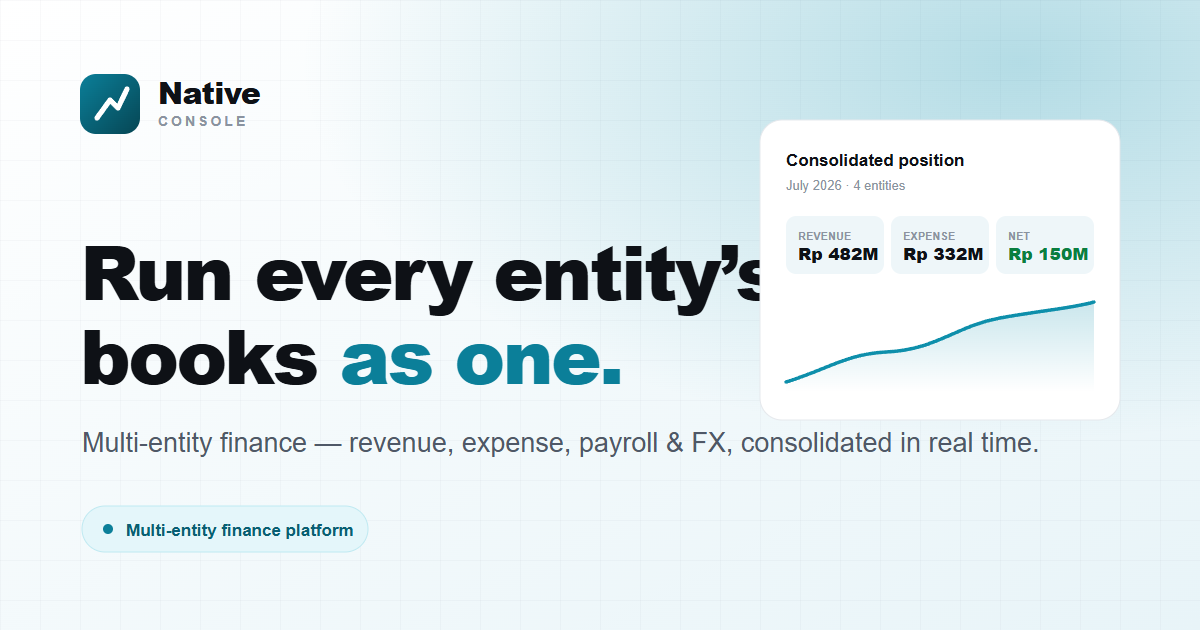
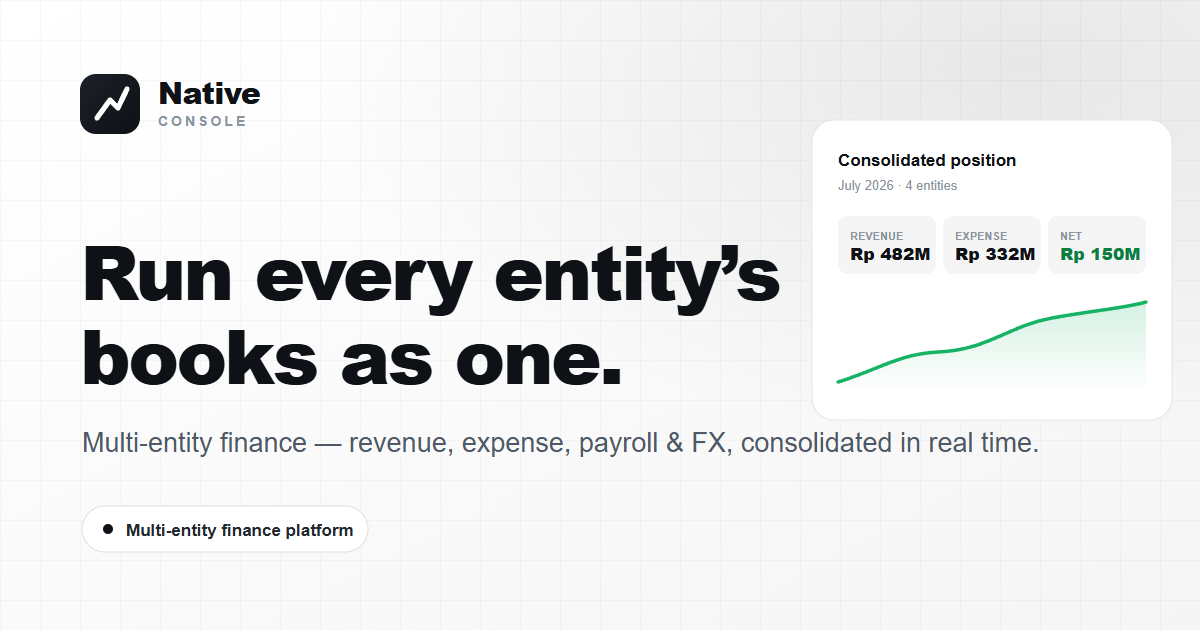
style(web): the ink brand reaches the surfaces ADR 0077's sweep never touched — login, self-order, share card, public pages, shell sources
ADR 0077 made the console ink, but the sweep stopped at frontend/console/src. Everything a
web user meets AROUND the console was still deep cyan: the Keycloak login page (the first
screen of every session — its own token block and a cyan-multiplied photo rail), the
self-order mini app's @theme, the Open Graph share card, the public privacy and
account-deletion pages' paper, and the Android shells' colours (launcher theme colours, the
pre-12 splash gradient, the offline error page, the Capacitor splash background). Owner:
"the web app still has the cyan theme."

Same move as the console: the token blocks are re-pointed, the names stay. Login theme —
`--nt-brand-600` fills go ink, 700 speaks one step off ink, the tints go true grey, the rail's
multiply and vignette go ink, the wordmark tile on the rail goes white with an ink glyph (the
signup panel's treatment); PatternFly's primary/active tokens follow automatically.
Self-order — the same six-value remap. Share card — ink mark and lockup, grey tints, the
trend line and NET in profit green (the one accent the ink brand keeps), the headline all ink
(no accent word), and the chart card nudged 52px right so "entity's" no longer runs under it;
og-image.png re-rastered. Public pages — paper #FAFAFA. Shells — colours.xml, splash,
capacitor.config and error.html sources are ink; they take effect on the next APK build.

The deploy already rsyncs docker/keycloak and bind-mounts the theme, so the login page
[…]

diff --git a/docker/keycloak/themes/native/login/resources/css/native.css b/docker/keycloak/themes/native/login/resources/css/native.css
@@ -1,10 +1,10 @@
 /*
  * Native login theme — re-skins the stock Keycloak keycloak.v2 (PatternFly v5) login page to match
  * the console's "Native Console" design system: Plus Jakarta Sans, the DEEP-CYAN brand ramp
- * (hue 193°), cool neutral inks, soft paper surfaces and rounded fields.
+ * neutral ink brand (ADR 0077), true-grey surfaces and rounded fields.
  *
  * It mirrors the sign-up page's split canvas (design 5a): on wide screens the photo brand rail
- * (cyan duotone, wordmark pinned top-left) carries all the brand weight while the form sits as a
+ * (ink duotone, wordmark pinned top-left) carries all the brand weight while the form sits as a
  * QUIET FULL-HEIGHT WHITE COLUMN on the right — no floating card, exactly like the console's
  * signup form column. Below 62rem it folds back to a centred card on paper, which stays robust on
  * mobile. Pure CSS on top of the inherited templates (plus message-bundle copy overrides in
@@ -19,27 +19,29 @@
  *    .native-wordmark .mark tile draws its glyph from a CSS data-URI, never from the realm HTML.
  *
  * Brand rule (from the design foundations): green is RETIRED as the brand — it now means
- * profit/done only. The brand is cyan: 600 (#0B7F99) fills, 700 (#095F73) speaks (text/links).
+ * profit/done only. The brand is INK (ADR 0077): 600 (#0E1116) fills, 700 (#22272E) speaks.
  */
 @import url('https://fonts.googleapis.com/css2?family=Plus+Jakarta+Sans:wght@400;500;600;700;800&display=swap');
 
 :root {
-  /* Deep-cyan brand ramp — mirrors frontend/console/src/index.css */
-  --nt-brand-50: #e4f6fa;
-  --nt-brand-100: #bfe9f1;
-  --nt-brand-200: #8bd5e3;
-  --nt-brand-300: #4fbdd1;
-  --nt-brand-500: #0e8fab;
-  --nt-brand-600: #0b7f99; /* primary fills — white on it is 4.7:1 */
-  --nt-brand-700: #095f73; /* text / links / hover — 7.3:1 */
-  --nt-brand-800: #064654;
-  --nt-brand-900: #04303a;
+  /* Brand = ink (ADR 0077) — the token NAMES are historical (the ramp was cyan), the values are the
+     console's: fills are ink, text/links one step off ink, the tints are true greys. Kept as a ramp
+     so PatternFly's recolour below and the rail keep working unchanged. */
+  --nt-brand-50: #f5f5f5;
+  --nt-brand-100: #e4e4e4;
+  --nt-brand-200: #dedede;
+  --nt-brand-300: #ffffff; /* the rail's wordmark tile — white, glyph ink (signup panel treatment) */
+  --nt-brand-500: #0e1116;
+  --nt-brand-600: #0e1116; /* primary fills — white on it is ~18:1 */
+  --nt-brand-700: #22272e; /* text / links / hover */
+  --nt-brand-800: #1c2027;
+  --nt-brand-900: #0e1116;
 
   --nt-ink: #0e1116;
   --nt-ink-2: #384151;
   --nt-ink-3: #6b7280;
-  --nt-line: #e5e8ec;
-  --nt-paper: #f6f9fa;
+  --nt-line: #e4e4e4;
+  --nt-paper: #fafafa;
   --nt-surface: #ffffff;
 
   /* Width of the photo brand rail on wide screens (and the matching form offset). */
@@ -47,9 +49,9 @@
   /* Shared field metrics — inputs and the primary button read as one family. */
   --nt-field-radius: 12px;
   --nt-field-height: 46px;
-  --nt-focus-ring: 0 0 0 4px rgba(11, 127, 153, 0.14);
+  --nt-focus-ring: 0 0 0 4px rgba(14, 17, 22, 0.15);
 
-  /* Recolour PatternFly's global design tokens → brand cyan (primary buttons, links, active). */
+  /* Recolour PatternFly's global design tokens → brand ink (primary buttons, links, active). */
   --pf-v5-global--primary-color--100: var(--nt-brand-600);
   --pf-v5-global--primary-color--200: var(--nt-brand-700);
   --pf-v5-global--link--Color: var(--nt-brand-700);
@@ -72,7 +74,7 @@ textarea,
   font-family: 'Plus Jakarta Sans', ui-sans-serif, system-ui, sans-serif !important;
 }
 
-/* Page background — mobile/narrow: the console's cool paper + a faint cyan glow. */
+/* Page background — mobile/narrow: the console's paper + a faint grey glow. */
 body#keycloak-bg {
   background: radial-gradient(80% 80% at 50% -10%, var(--nt-brand-50) 0%, var(--nt-paper) 60%) fixed !important;
   color: var(--nt-ink);
@@ -105,14 +107,14 @@ body#keycloak-bg {
     inset: 0 auto 0 0;
     width: var(--nt-rail);
     z-index: 0;
-    /* Layers, top → bottom: soft glows, bottom vignette (anchors the rail), cyan gradient
+    /* Layers, top → bottom: soft glows, bottom vignette (anchors the rail), ink gradient
        MULTIPLIED onto the (pre-desaturated) photo — a true duotone: the joglo-restaurant texture
-       shows through, everything stays brand cyan. Image is theme-local
+       shows through, everything stays brand ink. Image is theme-local
        (../img, license: frontend/console/src/assets/landing/SOURCES.md). */
     background:
       radial-gradient(58% 46% at 88% 10%, rgba(255, 255, 255, 0.1), transparent 70%),
-      linear-gradient(to top, rgba(4, 48, 58, 0.5), transparent 42%),
-      linear-gradient(157deg, var(--nt-brand-600) 0%, #073c49 100%),
+      linear-gradient(to top, rgba(14, 17, 22, 0.55), transparent 42%),
+      linear-gradient(157deg, var(--nt-brand-600) 0%, #1c2027 100%),
       url('../img/login-rail.webp') center / cover no-repeat var(--nt-brand-700);
     background-blend-mode: normal, normal, multiply, normal;
     box-shadow: inset -1px 0 0 rgba(4, 48, 58, 0.35);

diff --git a/frontend/self-order/src/index.css b/frontend/self-order/src/index.css
@@ -3,7 +3,7 @@
 /*
  * Self-order mini app — a deliberately small, standalone stylesheet (this app has no shared
  * package with the console; see frontend/self-order's own README-in-comments in main.tsx). Reuses
- * the SAME brand cyan hue (193°) and type stack as the console so a diner who has also seen the
+ * the SAME neutral-ink brand (ADR 0077) and type stack as the console so a diner who has also seen the
  * console-driven customer display recognises the same product, without pulling in the console's
  * full design-token file.
  */
@@ -13,20 +13,21 @@
   --font-sans: 'Plus Jakarta Sans', ui-sans-serif, system-ui, sans-serif;
   --font-mono: 'JetBrains Mono', ui-monospace, 'SFMono-Regular', monospace;
 
-  --color-brand-50: #e4f6fa;
-  --color-brand-100: #bfe9f1;
-  --color-brand-200: #8bd5e3;
-  --color-brand-500: #0e8fab;
-  --color-brand-600: #0b7f99;
-  --color-brand-700: #095f73;
+  /* Historical names, ink values (ADR 0077): 600 fills, 700 speaks, 50–200 are true-grey tints. */
+  --color-brand-50: #f5f5f5;
+  --color-brand-100: #e4e4e4;
+  --color-brand-200: #dedede;
+  --color-brand-500: #0e1116;
+  --color-brand-600: #0e1116;
+  --color-brand-700: #22272e;
 
   /* Light-only neutral scale (this kiosk app has no theme toggle) — same names as the console's
    * own tokens so the two codebases read the same, without importing the console's full palette. */
-  --color-paper: #f6f9fa;
+  --color-paper: #fafafa;
   --color-ink: #0e1116;
   --color-ink-2: #384151;
   --color-ink-3: #6b7280;
-  --color-line: #e5e8ec;
+  --color-line: #e4e4e4;
 }
 
 @layer base {
@@ -38,7 +39,7 @@
   body {
     margin: 0;
     min-height: 100dvh;
-    background-color: #f6f9fa;
+    background-color: #fafafa;
     color: #0e1116;
     font-family: var(--font-sans);
     font-size: 15px;

diff --git a/frontend/native-till/capacitor.config.ts b/frontend/native-till/capacitor.config.ts
@@ -41,7 +41,7 @@ const config: CapacitorConfig = {
   webDir: 'www',
   // Matches the console's page background (--color-paper) so the moment between splash
   // and first paint isn't a white flash.
-  backgroundColor: '#F6F9FA',
+  backgroundColor: '#FAFAFA',
   // Bundled (ADR 0051): no `url` → Capacitor serves the packaged webDir from local disk.
   // Thin client (ADR 0043): `url` points the WebView at the live origin.
   // Both keep errorPath: a branded retry page (www/error.html) instead of Chromium's raw
@@ -65,7 +65,7 @@ const config: CapacitorConfig = {
     SplashScreen: {
       launchAutoHide: true,
       launchShowDuration: 3000,
-      backgroundColor: '#F6F9FA',
+      backgroundColor: '#FAFAFA',
       showSpinner: false,
       splashFullScreen: true,
       splashImmersive: false,

diff --git a/frontend/native-employee/www/error.html b/frontend/native-employee/www/error.html
@@ -11,7 +11,7 @@
         display: flex;
         align-items: center;
         justify-content: center;
-        background: linear-gradient(135deg, #0e8fab, #064654);
+        background: linear-gradient(135deg, #0e1116, #1c2027);
         font-family: system-ui, -apple-system, sans-serif;
         color: #fff;
         text-align: center;
@@ -23,7 +23,7 @@
       p { font-size: 15px; line-height: 1.5; opacity: 0.85; margin-bottom: 24px; }
       button {
         background: #fff;
-        color: #095f73;
+        color: #22272e;
         border: 0;
         border-radius: 12px;
         padding: 14px 28px;

diff --git a/frontend/native-till/www/error.html b/frontend/native-till/www/error.html
@@ -11,7 +11,7 @@
         display: flex;
         align-items: center;
         justify-content: center;
-        background: linear-gradient(135deg, #0e8fab, #064654);
+        background: linear-gradient(135deg, #0e1116, #1c2027);
         font-family: system-ui, -apple-system, sans-serif;
         color: #fff;
         text-align: center;
@@ -23,7 +23,7 @@
       p { font-size: 15px; line-height: 1.5; opacity: 0.85; margin-bottom: 24px; }
       button {
         background: #fff;
-        color: #095f73;
+        color: #22272e;
         border: 0;
         border-radius: 12px;
         padding: 14px 28px;

diff --git a/frontend/native-employee/capacitor.config.ts b/frontend/native-employee/capacitor.config.ts
@@ -34,7 +34,7 @@ const config: CapacitorConfig = {
   webDir: 'www',
   // Matches the console's page background (--color-paper) so the moment between splash
   // and first paint isn't a white flash.
-  backgroundColor: '#F6F9FA',
+  backgroundColor: '#FAFAFA',
   server: {
     url: SERVER_URL,
     // The auth host must stay inside the WebView (see AUTH_ORIGIN above). External links

diff --git a/frontend/console/public/delete-account.html b/frontend/console/public/delete-account.html
@@ -25,7 +25,7 @@
     -->
     <style>
       :root {
-        --paper: #f6f9fa;
+        --paper: #fafafa;
         --ink: #0f1b1f;
         --ink-2: #3b4a4f;
         --ink-3: #64757b;

diff --git a/frontend/console/public/privacy.html b/frontend/console/public/privacy.html
@@ -28,7 +28,7 @@
     -->
     <style>
       :root {
-        --paper: #f6f9fa;
+        --paper: #fafafa;
         --ink: #0f1b1f;
         --ink-2: #3b4a4f;
         --ink-3: #64757b;
